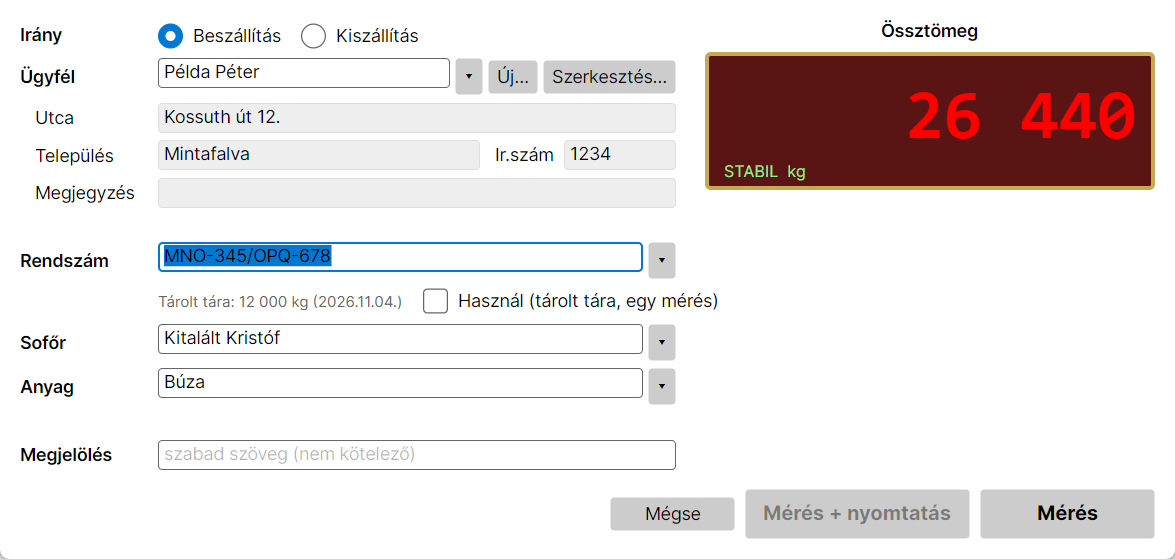
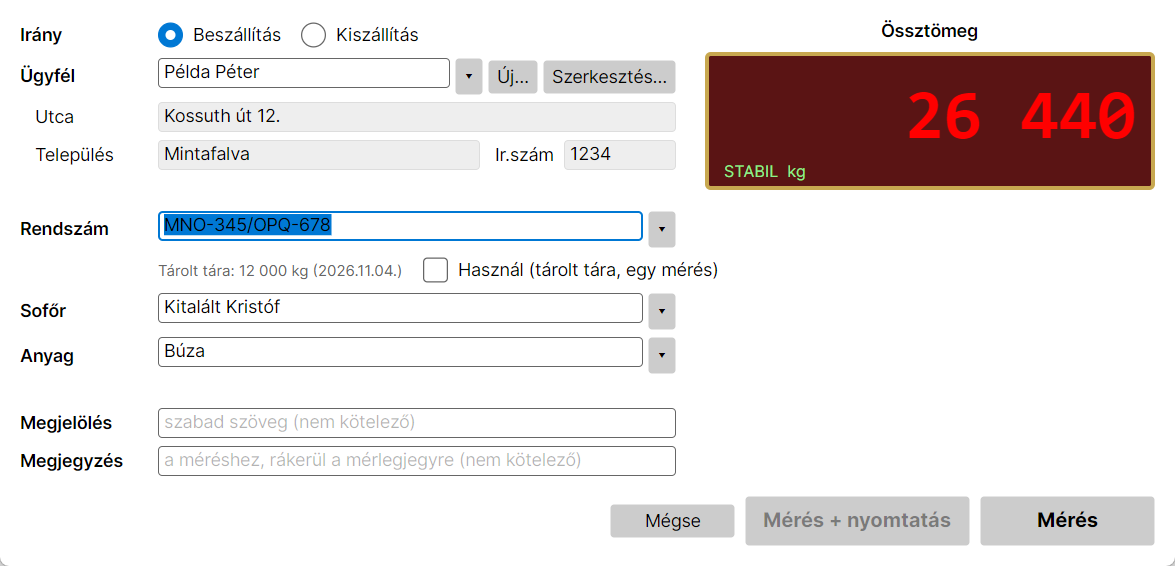
Weighing note, sample ticket layouts, always print on A4
- Each weighing has its own note (Megjegyzés): editable at the first and the
  second weighing, printed on the ticket (field 27, or 92 for the note only),
  shown and searchable in Napló; the customer's note is shown as a hint
- forms/: three sample .form layouts without personal data (company and HRSZ
  come from the settings), shipped next to the program and found by name
- Printing always requests A4 paper: both HP drivers defaulted to Letter and the
  generic IPP class driver scaled pages down

diff --git a/src/TruckScale.App/WeighingWindow.axaml.cs b/src/TruckScale.App/WeighingWindow.axaml.cs
@@ -55,8 +55,13 @@ public partial class WeighingWindow : Window
         DriverBox.Text = open.DriverName;
         MaterialBox.Text = MaterialText(open);
         MarkingBox.Text = open.Marking;
+        NoteBox.Text = open.Note;
 
-        if (_partners.FirstOrDefault(p => p.Id == open.PartnerId) is { } partner) FillDetails(partner);
+        if (_partners.FirstOrDefault(p => p.Id == open.PartnerId) is { } partner)
+        {
+            FillDetails(partner);
+            PartnerInfo.Text = string.IsNullOrWhiteSpace(partner.Note) ? "" : L.F("w.partnerNote", partner.Note);
+        }
         PartnerNew.IsVisible = PartnerEdit.IsVisible = false;
         foreach (var c in new Control[] { DirIn, DirOut, PartnerBox, PartnerList,
                      PlateBox, PlateList, DriverBox, DriverList, MaterialBox, MaterialList, UseStoredTare, MarkingBox })
@@ -135,7 +140,6 @@ public partial class WeighingWindow : Window
         StreetBox.Text = p?.Street;
         TownBox.Text = p?.Town;
         ZipBox.Text = p?.Zip;
-        PartnerNoteBox.Text = p?.Note;
         _detailsFor = p?.Id;
     }
 
@@ -203,7 +207,6 @@ public partial class WeighingWindow : Window
     {
         if (_open is not null)
         {
-            PartnerInfo.Text = "";
             TareInfo.Text = "";
             MaterialInfo.Text = "";
             UpdateHint();
@@ -214,9 +217,9 @@ public partial class WeighingWindow : Window
         // Switching to another known customer loads its details; switching to a new name clears them.
         if (p is not null && p.Id != _detailsFor) FillDetails(p);
         else if (p is null && _detailsFor is not null) { FillDetails(null); }
-        PartnerInfo.Text = p is null && !string.IsNullOrWhiteSpace(PartnerBox.Text)
-            ? L.T("w.unknownPartnerInfo")
-            : "";
+        PartnerInfo.Text = p is null
+            ? (string.IsNullOrWhiteSpace(PartnerBox.Text) ? "" : L.T("w.unknownPartnerInfo"))
+            : (string.IsNullOrWhiteSpace(p.Note) ? "" : L.F("w.partnerNote", p.Note));
         PartnerEdit.IsEnabled = p is not null;
 
         var v = CurrentVehicle;
@@ -305,12 +308,12 @@ public partial class WeighingWindow : Window
                 if (Math.Abs(weight - (_open.FirstWeight ?? 0)) < 200 &&
                     !await Dialog.Confirm(this, L.T("w.weigh"), L.F("w.similar", AppState.Kg(_open.FirstWeight), AppState.Kg(weight))))
                     return null;
-                return _state.Db.CloseWeighing(_open.Id, weight, now);
+                return _state.Db.CloseWeighing(_open.Id, weight, now, NoteBox.Text ?? "");
             }
 
             var draft = new WeighingDraft(
                 DirIn.IsChecked == true ? Direction.In : Direction.Out,
-                CurrentPartner!.Name, PlateBox.Text ?? "", DriverBox.Text, MaterialBox.Text, MarkingBox.Text);
+                CurrentPartner!.Name, PlateBox.Text ?? "", DriverBox.Text, MaterialBox.Text, MarkingBox.Text, Note: NoteBox.Text);
 
             if (UseStoredTare.IsChecked == true)
                 return _state.Db.SingleWeighing(draft, weight, now);
@@ -337,7 +340,7 @@ public partial class WeighingWindow : Window
     {
         _done = w;
         foreach (var c in new Control[] { DirIn, DirOut, PartnerBox, PartnerList, PartnerNew, PartnerEdit, PlateBox, PlateList,
-                     DriverBox, DriverList, MaterialBox, MaterialList, UseStoredTare, MarkingBox })
+                     DriverBox, DriverList, MaterialBox, MaterialList, UseStoredTare, MarkingBox, NoteBox })
             c.IsEnabled = false;
         VoidButton.IsVisible = false;
         CancelButton.Content = L.T("common.close");

diff --git a/src/TruckScale.Core/Data/TruckScaleDb.cs b/src/TruckScale.Core/Data/TruckScaleDb.cs
@@ -186,7 +186,7 @@ public sealed class TruckScaleDb : IDisposable
     private const string WeighingCols = """
         id, ticket_no, direction, status, partner_id, vehicle_id, driver_id, material_id,
         partner_name, partner_address, plate, driver_name, material_name, material_note, marking,
-        first_weight, first_at, second_weight, second_at, closed_at, gross, tare, net, stored_tare
+        first_weight, first_at, second_weight, second_at, closed_at, gross, tare, net, stored_tare, note
         """;
 
     private static Weighing ReadWeighing(SqliteDataReader r) => new()
@@ -200,6 +200,7 @@ public sealed class TruckScaleDb : IDisposable
         MaterialName = Str(r, 12), MaterialNote = Str(r, 13), Marking = Str(r, 14),
         FirstWeight = Int(r, 15), FirstAt = Dt(r, 16), SecondWeight = Int(r, 17), SecondAt = Dt(r, 18), ClosedAt = Dt(r, 19),
         Gross = Int(r, 20), Tare = Int(r, 21), Net = Int(r, 22), StoredTare = r.GetInt64(23) == 1,
+        Note = Str(r, 24),
     };
 
     public Weighing GetWeighing(long id) =>
@@ -256,8 +257,11 @@ public sealed class TruckScaleDb : IDisposable
         return GetWeighing(id);
     }
 
-    /// <summary>Second Mérés of a truck in the yard: closes the ticket and stores the vehicle's tare.</summary>
-    public Weighing CloseWeighing(long id, int weight, DateTime at)
+    /// <summary>
+    /// Second Mérés of a truck in the yard: closes the ticket and stores the vehicle's tare.
+    /// <paramref name="note"/> (if not null) replaces the weighing's note; empty text clears it.
+    /// </summary>
+    public Weighing CloseWeighing(long id, int weight, DateTime at, string? note = null)
     {
         using var tx = _c.BeginTransaction();
         var w = Query($"SELECT {WeighingCols} FROM weighings WHERE id = $id", ReadWeighing, tx, ("$id", id)).Single();
@@ -268,6 +272,8 @@ public sealed class TruckScaleDb : IDisposable
                 gross = $g, tare = $ta, net = $n WHERE id = $id
             """, tx, ("$t", NextTicketNo(tx)), ("$w", weight), ("$at", Schema.Ts(at)),
             ("$g", res.Gross), ("$ta", res.Tare), ("$n", res.Net), ("$id", id));
+        if (note is not null)
+            Exec("UPDATE weighings SET note = $note WHERE id = $id", tx, ("$note", Normalize.CleanOrNull(note)), ("$id", id));
         if (w.VehicleId is long vid)
             Exec("UPDATE vehicles SET last_tare = $t, last_tare_at = $at, default_driver_id = COALESCE($d, default_driver_id) WHERE id = $id",
                 tx, ("$t", res.Tare), ("$at", Schema.Ts(at)), ("$d", w.DriverId), ("$id", vid));
@@ -308,6 +314,7 @@ public sealed class TruckScaleDb : IDisposable
             ["material_name"] = v.Material?.Name,
             ["material_note"] = v.Material?.Note,
             ["marking"] = Normalize.CleanOrNull(d.Marking),
+            ["note"] = Normalize.CleanOrNull(d.Note),
         };
         foreach (var (k, val) in extra) values[k] = val;
         return InsertId($"INSERT INTO weighings({string.Join(",", values.Keys)}) VALUES ({string.Join(",", values.Keys.Select(k => "$" + k))})",

diff --git a/src/TruckScale.Core/Localization/Strings.cs b/src/TruckScale.Core/Localization/Strings.cs
@@ -121,6 +121,8 @@ public static class Strings
         ["w.driverPlaceholder"] = "Vezetéknév Keresztnév",
         ["w.materialPlaceholder"] = "pl. Árpa",
         ["w.markingPlaceholder"] = "szabad szöveg (nem kötelező)",
+        ["w.notePlaceholder"] = "a méréshez, rákerül a mérlegjegyre (nem kötelező)",
+        ["w.partnerNote"] = "Ügyfél megjegyzés: {0}",
         ["w.first"] = "1. mérés",
         ["w.second"] = "2. mérés",
         ["w.totalWeight"] = "Össztömeg",
@@ -170,6 +172,7 @@ public static class Strings
         ["filter.clear"] = "Szűrők törlése",
         ["filter.datePlaceholder"] = "pl. 2023.07",
         ["filter.none"] = "nincs (minden mérés)",
+        ["filter.markingNote"] = "Megjelölés / megjegyzés",
 
         // Áttekintés
         ["sum.title"] = "Áttekintés – összesítő",
@@ -232,7 +235,7 @@ public static class Strings
         ["set.printing"] = "Nyomtatás",
         ["set.printer"] = "Nyomtató",
         ["set.form"] = "Forma fájl",
-        ["set.formHint"] = "Üresen hagyva a beépített mintát használja. Relatív név esetén az adatbázis mellett keresi.",
+        ["set.formHint"] = "Üresen hagyva a beépített mintát használja. Név szerint az adatbázis mellett és a program forms mappájában keresi (pl. ket-jegy-A4.form).",
         ["set.company"] = "Cég (a mérlegjegyen)",
         ["set.noteHint"] = "A megjegyzés (pl. „… 0123/4 Hrsz”) az Átadó és Átvevő között jelenik meg.",
         ["set.taxNo"] = "Adószám",
@@ -363,6 +366,8 @@ public static class Strings
         ["w.driverPlaceholder"] = "Family name Given name",
         ["w.materialPlaceholder"] = "e.g. Barley",
         ["w.markingPlaceholder"] = "free text (optional)",
+        ["w.notePlaceholder"] = "for this weighing, printed on the ticket (optional)",
+        ["w.partnerNote"] = "Customer note: {0}",
         ["w.first"] = "1st weight",
         ["w.second"] = "2nd weight",
         ["w.totalWeight"] = "Total weight",
@@ -410,6 +415,7 @@ public static class Strings
         ["filter.clear"] = "Clear filters",
         ["filter.datePlaceholder"] = "e.g. 07/2023",
         ["filter.none"] = "none (all weighings)",
+        ["filter.markingNote"] = "Marking / note",
 
         ["sum.title"] = "Summary",
         ["sum.byMaterial"] = "By material",
@@ -468,7 +474,7 @@ public static class Strings
         ["set.printing"] = "Printing",
         ["set.printer"] = "Printer",
         ["set.form"] = "Layout file",
-        ["set.formHint"] = "Leave empty for the built-in layout. A relative name is looked up next to the database.",
+        ["set.formHint"] = "Leave empty for the built-in layout. A name is looked up next to the database and in the program's forms folder (e.g. two-tickets-A4-en.form).",
         ["set.company"] = "Company (on the ticket)",
         ["set.noteHint"] = "The note (e.g. a land registry number) is printed between the two signatures.",
         ["set.taxNo"] = "Tax number",

diff --git a/src/TruckScale.App/Ticket.cs b/src/TruckScale.App/Ticket.cs
@@ -14,7 +14,7 @@ namespace TruckScale.App;
 /// <summary>Builds the ticket of a weighing from the configured .form file and prints it.</summary>
 public static class TicketService
 {
-    /// <summary>The configured form file, searched next to the database, then next to the program.</summary>
+    /// <summary>The configured form file, searched next to the database, then next to the program (and its forms\ folder).</summary>
     public static (List<FormField> Form, string Source) LoadForm(AppState state)
     {
         var name = state.Db.GetSetting("ticket.form");
@@ -26,6 +26,7 @@ public static class TicketService
                 {
                     System.IO.Path.Combine(System.IO.Path.GetDirectoryName(System.IO.Path.GetFullPath(state.Db.Path))!, name),
                     System.IO.Path.Combine(AppContext.BaseDirectory, name),
+                    System.IO.Path.Combine(AppContext.BaseDirectory, "forms", name),
                     System.IO.Path.GetFullPath(name),
                 };
             foreach (var path in candidates)
@@ -81,10 +82,22 @@ public static class TicketService
             {
                 var ps = new PrinterSettings();
                 if (!string.IsNullOrWhiteSpace(printer)) ps.PrinterName = printer;
-                if (ps.IsValid) _ = ps.DefaultPageSettings.HardMarginX;
+                if (ps.IsValid) { _ = ps.DefaultPageSettings.HardMarginX; _ = ps.PaperSizes.Count; }
             }
             catch { /* only a speed-up */ }
         });
+    }
+
+    /// <summary>
+    /// Always print on A4: many drivers default to Letter (both HP entries here did), and the generic
+    /// "Microsoft IPP Class Driver" then scales the page down to fit.
+    /// </summary>
+    [SupportedOSPlatform("windows")]
+    internal static void UseA4(PrintDocument doc)
+    {
+        var a4 = doc.PrinterSettings.PaperSizes.Cast<PaperSize>().FirstOrDefault(p => p.Kind == PaperKind.A4);
+        if (a4 is not null) doc.DefaultPageSettings.PaperSize = a4;
+        doc.DefaultPageSettings.Landscape = false;
     }
 
     [SupportedOSPlatform("windows")]
@@ -97,6 +110,7 @@ public static class TicketService
             if (!doc.PrinterSettings.IsValid)
                 throw new InvalidOperationException(L.F("print.noPrinter", printer));
         }
+        UseA4(doc);
         var fonts = new Dictionary<double, System.Drawing.Font>();
         doc.EndPrint += (_, _) => { foreach (var f in fonts.Values) f.Dispose(); };
         doc.PrintPage += (_, e) =>

diff --git a/tests/TruckScale.Core.Tests/FormFileTests.cs b/tests/TruckScale.Core.Tests/FormFileTests.cs
@@ -1,0 +1,48 @@
+using TruckScale.Core.Data;
+using TruckScale.Core.Ticket;
+
+namespace TruckScale.Core.Tests;
+
+/// <summary>The sample layouts in forms/ must parse and only use known field types.</summary>
+public class FormFileTests
+{
+    private static readonly int[] KnownTypes = [4, 5, 6, 14, 15, 21, 22, 24, 25, 26, 27, 28, 30, 31, 32, 33, 34, 35, 36, 43, 44, 90, 91, 92];
+
+    private static string FormsDir()
+    {
+        var dir = new DirectoryInfo(AppContext.BaseDirectory);
+        while (dir is not null && !File.Exists(Path.Combine(dir.FullName, "TruckScale.slnx"))) dir = dir.Parent;
+        return Path.Combine(dir!.FullName, "forms");
+    }
+
+    public static TheoryData<string> Files()
+    {
+        var d = new TheoryData<string>();
+        foreach (var f in Directory.GetFiles(FormsDir(), "*.form")) d.Add(Path.GetFileName(f));
+        return d;
+    }
+
+    [Theory]
+    [MemberData(nameof(Files))]
+    public void Sample_form_is_valid(string file)
+    {
+        var form = TicketForm.Load(Path.Combine(FormsDir(), file));
+        Assert.True(form.Count >= 40, $"{file}: {form.Count} fields");
+        Assert.All(form, f => Assert.Contains(f.Type, KnownTypes));
+        Assert.All(form, f => Assert.InRange(f.X, 0, 210));
+        Assert.All(form, f => Assert.InRange(f.Y, 0, 297));
+
+        var w = new Weighing
+        {
+            TicketNo = 12, Direction = Direction.In, Status = WeighingStatus.Done, PartnerName = "Teszt Ügyfél", Plate = "ABC-123",
+            MaterialName = "Búza", MaterialNote = "vetőmag", Note = "Szárító", Gross = 30000, Tare = 12000, Net = 18000,
+            FirstAt = new DateTime(2026, 7, 1, 8, 0, 0), ClosedAt = new DateTime(2026, 7, 1, 8, 20, 0),
+        };
+        var texts = TicketForm.Layout(form, w, new Dictionary<string, string?> { ["company.name"] = "Minta Kft.", ["company.note"] = "0123/4 Hrsz" })
+            .OfType<TicketText>().Select(t => t.Text).ToList();
+        Assert.Contains("Minta Kft.", texts);
+        Assert.Contains("0123/4 Hrsz", texts);
+        Assert.Contains("vetőmag – Szárító", texts);   // material note + weighing note
+        Assert.Contains("ABC-123", texts);
+    }
+}

diff --git a/src/TruckScale.Core/Ticket/TicketForm.cs b/src/TruckScale.Core/Ticket/TicketForm.cs
@@ -30,7 +30,8 @@ public static partial class TicketForm
         CompanyNote = 32,    // printed between Átadó and Átvevő, e.g. "… 0123/4 Hrsz"
         StoredTare = 43, MeasuredWeight = 44,
         CompanyHeader = 90,  // new: company name and address from the settings
-        DirectionText = 91;  // new: Beszállítás / Kiszállítás
+        DirectionText = 91,  // new: Beszállítás / Kiszállítás
+        WeighingNote = 92;   // new: note of the weighing only
 
     
     [GeneratedRegex(@"^<(\d+)><(\d+)><(\d+)><(\d+)><([LMR])><(\d+)><(\d+)><(\d+)><([^>]*)><(.*)>\s*$")]
@@ -91,7 +92,8 @@ public static partial class TicketForm
                 Plate => w.Plate ?? "",
                 Driver => w.DriverName ?? "",
                 Material => w.MaterialName ?? "",
-                MaterialNote => w.MaterialNote ?? "",
+                MaterialNote => string.Join(" – ", new[] { w.MaterialNote, w.Note }.Where(s => !string.IsNullOrWhiteSpace(s))),
+                WeighingNote => w.Note ?? "",
                 Marking => w.Marking ?? "",
                 Gross => Kg(w.Gross), Net => Kg(w.Net), Tare => Kg(w.Tare),
                 Operator => settings.GetValueOrDefault("operator.name") ?? "",

diff --git a/src/TruckScale.App/Reports.cs b/src/TruckScale.App/Reports.cs
@@ -114,7 +114,7 @@ public sealed class FilterBar : WrapPanel
         _partner = Box(L.T("f.customer"), 190);
         _driver = Box(L.T("f.driver"), 150);
         _material = Box(L.T("f.material"), 150);
-        _marking = Box(L.T("f.marking"), 140);
+        _marking = Box(L.T("filter.markingNote"), 160);
         var clear = new Button { Content = L.T("filter.clear"), VerticalAlignment = VerticalAlignment.Bottom, Margin = new Thickness(4, 0, 0, 0) };
         clear.Click += (_, _) =>
         {
@@ -171,6 +171,7 @@ public static class Grids
         Col(L.T("f.driver"), "DriverName");
         Col(L.T("f.material"), "MaterialName");
         Col(L.T("f.marking"), "Marking");
+        Col(L.T("f.note"), "Note");
         Col(L.T("f.gross"), "Gross", "{0:N0}");
         Col(L.T("f.tare"), "Tare", "{0:N0}");
         Col(L.T("f.net"), "Net", "{0:N0}");
@@ -444,6 +445,7 @@ public static class ReportPrinter
             if (!pd.PrinterSettings.IsValid)
                 throw new InvalidOperationException(L.F("print.noPrinter", printer));
         }
+        TicketService.UseA4(pd);
         using var pager = new Pager(doc, fontName, total);
         pd.PrintPage += (_, e) =>
         {

diff --git a/src/TruckScale.Core/Data/Models.cs b/src/TruckScale.Core/Data/Models.cs
@@ -40,7 +40,8 @@ public sealed record WeighingDraft(
     string? DriverName,
     string? MaterialName,
     string? Marking,
-    PartnerDetails? Partner = null);
+    PartnerDetails? Partner = null,
+    string? Note = null);
 
 public sealed record Weighing
 {
@@ -68,6 +69,8 @@ public sealed record Weighing
     public int? Tare { get; init; }
     public int? Net { get; init; }
     public bool StoredTare { get; init; }
+    /// <summary>Note of this weighing (editable at both weighings, printed on the ticket).</summary>
+    public string? Note { get; init; }
 
     public string DirectionText => L.T(Direction == Direction.In ? "dir.in" : "dir.out");
     public string StatusText => L.T(Status switch { WeighingStatus.Open => "status.open", WeighingStatus.Void => "status.void", _ => "status.done" });

diff --git a/src/TruckScale.Core/WeighingFilter.cs b/src/TruckScale.Core/WeighingFilter.cs
@@ -23,7 +23,7 @@ public sealed record WeighingFilter(
         Has(Partner, w.PartnerName) &&
         Has(Driver, w.DriverName) &&
         Has(Material, $"{w.MaterialName} {w.MaterialNote}") &&
-        Has(Marking, w.Marking);
+        Has(Marking, $"{w.Marking} {w.Note}");
 
     private static bool Has(string? search, string? value) =>
         string.IsNullOrWhiteSpace(search) || Normalize.NameKey(value).Contains(Normalize.NameKey(search));

diff --git a/docs/FELHASZNALOI_UTMUTATO.md b/docs/FELHASZNALOI_UTMUTATO.md
@@ -51,13 +51,14 @@ A **Beszállítás** vagy **Kiszállítás** gomb a „Jármű érkezése” abl
 
 | Mező | Tudnivaló |
 |---|---|
-| **Ügyfél** | Választani kell a listából. Gépelni is lehet, ilyenkor szűr a lista (az ékezet nem számít). A **↑ / ↓** nyíl lépteti az ügyfeleket. Alatta a cím csak olvasható. |
+| **Ügyfél** | Választani kell a listából. Gépelni is lehet, ilyenkor szűr a lista (az ékezet nem számít). A **↑ / ↓** nyíl lépteti az ügyfeleket. Alatta a cím csak olvasható, és ha az ügyfélnek van megjegyzése, az is látszik. |
 | **Új…** | Új ügyfél felvétele (név, cím, megjegyzés). |
 | **Szerkesztés…** | A kiválasztott ügyfél adatainak javítása. |
 | **Rendszám** | Választható vagy beírható. Új rendszámot a program magától felvesz. Ha a listából választod, a szokásos sofőrt is beírja. Az írásmód nem számít: „ABC-123/XYZ-456” = „abc123 xyz456”. |
 | **Tárolt tára / Használ** | A jármű utolsó mért üres súlya. Lásd [Használ](#használ-tárolt-tára-egy-mérés). |
 | **Sofőr, Anyag** | Választható vagy beírható. Az újakat a program felveszi. |
 | **Megjelölés** | Szabad szöveg, nem kötelező (pl. tábla, szerződésszám). Rákerül a jegyre. |
+| **Megjegyzés** | A mérés saját megjegyzése (pl. „szárítóba”, nedvesség). Távozáskor is javítható, és rákerül a mérlegjegyre. |
 
 ![Új ügyfél](images/new-customer.png)
 
@@ -73,7 +74,7 @@ Amikor a jármű távozik, a főablak **Udvaron** listájában **dupla kattintá
 
 ![Jármű távozása](images/departure.png)
 
-Itt már semmi nem módosítható, csak a második mérés történik meg:
+Itt már csak a **Megjegyzés** módosítható (lezáráskor elmentődik), minden más rögzített:
 
 - **Mérés + nyomtatás** (és az **Enter** is): lemér, lezárja a jegyet, kinyomtatja a mérlegjegyet, és bezárja az ablakot. A nyomtatás ideje alatt a jegyszám és a nettó súly látszik.
 - **Mérés:** csak lezár és megmutatja az eredményt. A **Nyomtatás** gombbal ugyanott ki lehet nyomtatni.
@@ -145,7 +146,12 @@ Az **Előnézet** a nyomtatandó oldalakat mutatja, a **Nyomtatás** kinyomtatja
 ![Beállítás](images/settings.png)
 
 - **Nyomtató:** a mérlegjegyek és az összesítők nyomtatója. Az előnézet ablakokban is át lehet állítani.
-- **Forma fájl:** a mérlegjegy elrendezése (a régi program `.form` fájljai is jók). Ha üresen marad, a beépített mintát használja: két jegy egy A4-es lapon.
+- **Forma fájl:** a mérlegjegy elrendezése (a régi program `.form` fájljai is jók). Ha üresen marad, a beépített mintát használja: két jegy egy A4-es lapon. A program mellett lévő `forms` mappában kész minták vannak, ezek név szerint is megadhatók:
+  - `ket-jegy-A4.form`: két jegy egy A4-es lapon (kettévágható),
+  - `egy-jegy-A4.form`: egy jegy a lap tetején,
+  - `two-tickets-A4-en.form`: két jegy angolul.
+
+  A minták a cégnevet és -címet, valamint a megjegyzést (pl. hrsz) a Beállításból veszik, így bármelyik gazdaság használhatja őket.
 - **Cég:** a jegy fejlécében szereplő adatok. A **Megjegyzés** (pl. „… 0123/4 Hrsz”) az Átadó és Átvevő aláírás között jelenik meg.
 - **Mérleg:** soros port és sebesség (a mérleg 9600 baudon küld), valamint a **Szimulátor** mérleg nélküli próbához. A mérleg beállításai a program újraindítása után lépnek életbe.
 
@@ -166,6 +172,8 @@ Az **Előnézet** a nyomtatandó oldalakat mutatja, a **Nyomtatás** kinyomtatja
 - „A mérleg nem stabil”,
 - „Válassza ki az ügyfelet”,
 - „A mérleg üres”.
+
+**Kicsinyítve (pl. 60%-on) nyomtat.** A program mindig A4-es lapot kér. Ha a nyomtató ennek ellenére kicsinyít, a Beállításban válaszd a nyomtató **saját illesztőprogramos** bejegyzését (pl. „NPI04DBCD (HP LaserJet …)”) a Windows általános bejegyzése helyett. Az általános bejegyzés a „Microsoft IPP Class Driver”, ez lapra igazítással kicsinyíthet.
 
 **Lassú az első nyomtatás.** A nyomtató illesztőprogramjának első betöltése 10 másodperc körül is lehet. A program ezt indításkor a háttérben elvégzi, utána a nyomtatás gyors. Ha tartósan lassú, próbáld ki a Beállításban ugyanannak a nyomtatónak a másik bejegyzését (pl. hálózati helyett USB-s).
 

diff --git a/README.md b/README.md
@@ -18,7 +18,7 @@ C# / .NET 10 · [Avalonia](https://avaloniaui.net/) UI · SQLite · Windows, Lin
   - **Használ** (stored tare) closes a ticket with a single weighing.
   - **Stornó** cancels an open weighing; it is kept, not deleted.
 - **Lists:** customers with address; plates and drivers are independent of the customer, since one truck hauls for many customers.
-- **Tickets:** printed from the old program's `.form` layouts (or a built-in A4 layout), with preview and zoom. Any past ticket can be reprinted.
+- **Tickets:** printed on A4 from the old program's `.form` layouts or the samples in [`forms/`](forms) (or a built-in layout), with preview and zoom. Any past ticket can be reprinted. Each weighing has its own note, editable at both weighings and printed on the ticket.
 - **Napló (history):** every weighing, with per-column filters and sortable columns.
 - **Áttekintés (summary):** totals for any period, per grain and per customer, printable over multiple pages.
 - **Scale:** serial indicator sending `ST,GL,   12340kg` lines (ST = stable); built-in simulator for testing without a scale.
